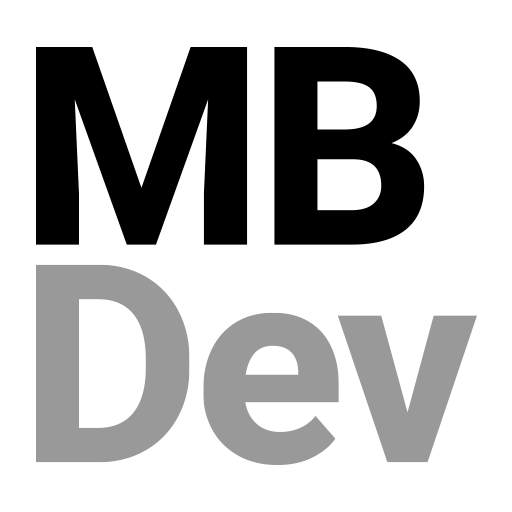
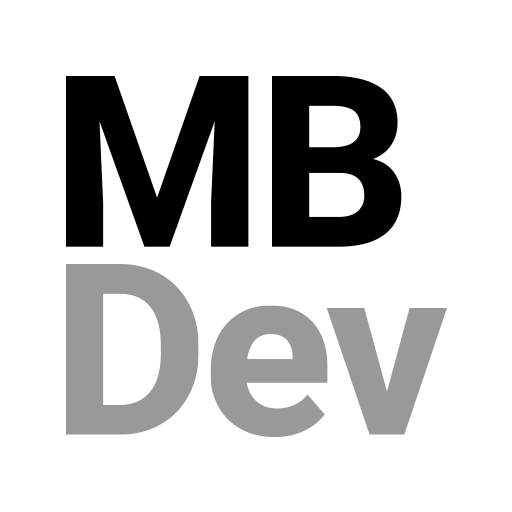
Updated PWA colors

Changed region(s): [[0.0625, 0.0938, 0.9375, 0.9062], [0.5312, 0.0938, 0.8438, 0.5], [0.4375, 0.5938, 0.5938, 0.6562]]

diff --git a/gatsby-config.js b/gatsby-config.js
@@ -29,8 +29,8 @@ module.exports = {
         short_name: `MBDev`,
         start_url: `/`,
         lang: `en`,
-        background_color: `#f7f0eb`,
-        theme_color: `#a2466c`,
+        background_color: `#d5d5d5`,
+        theme_color: `#000000`,
         display: `standalone`,
         icon: `src/images/icon.png`,
         cache_busting_mode: `none`,
